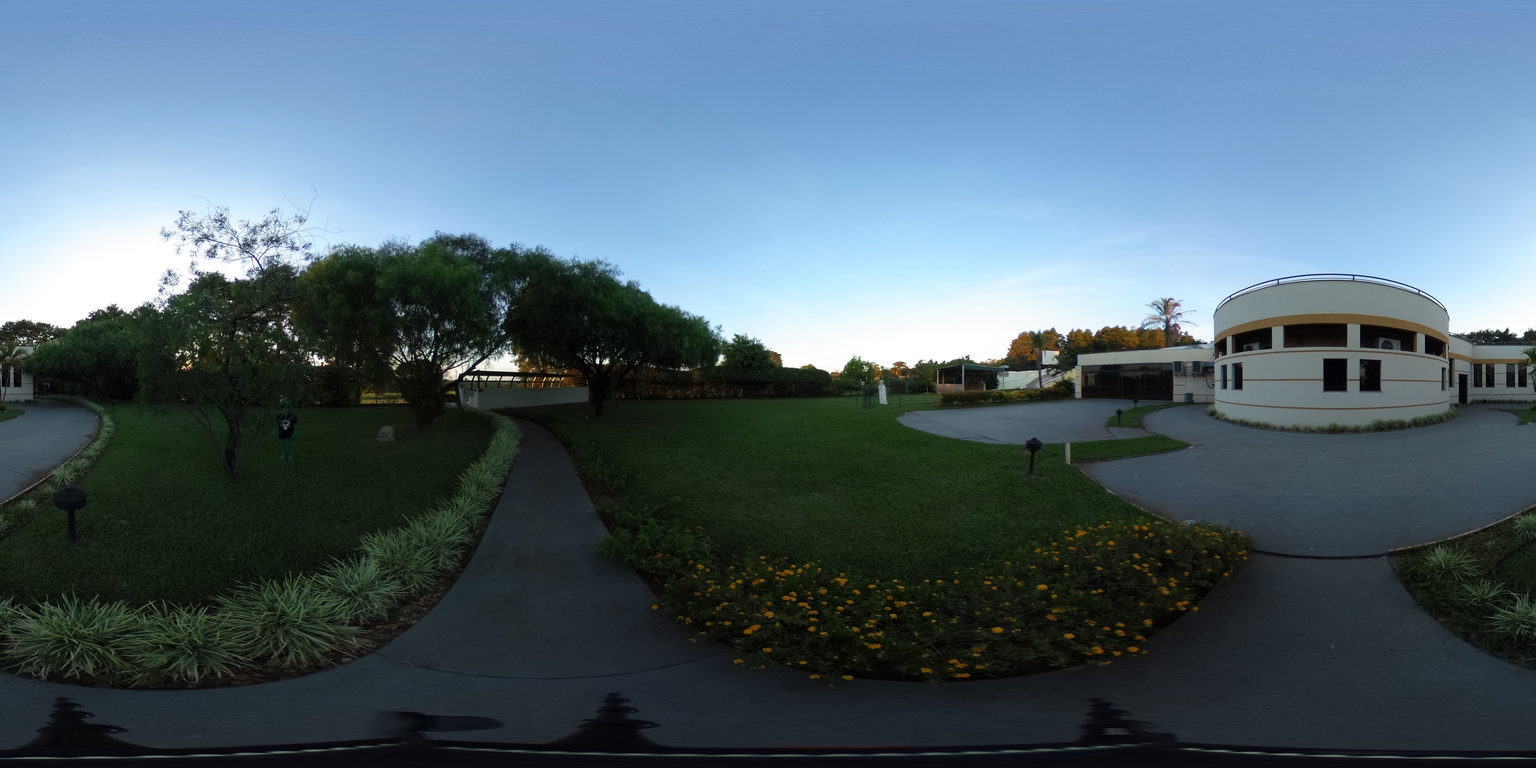
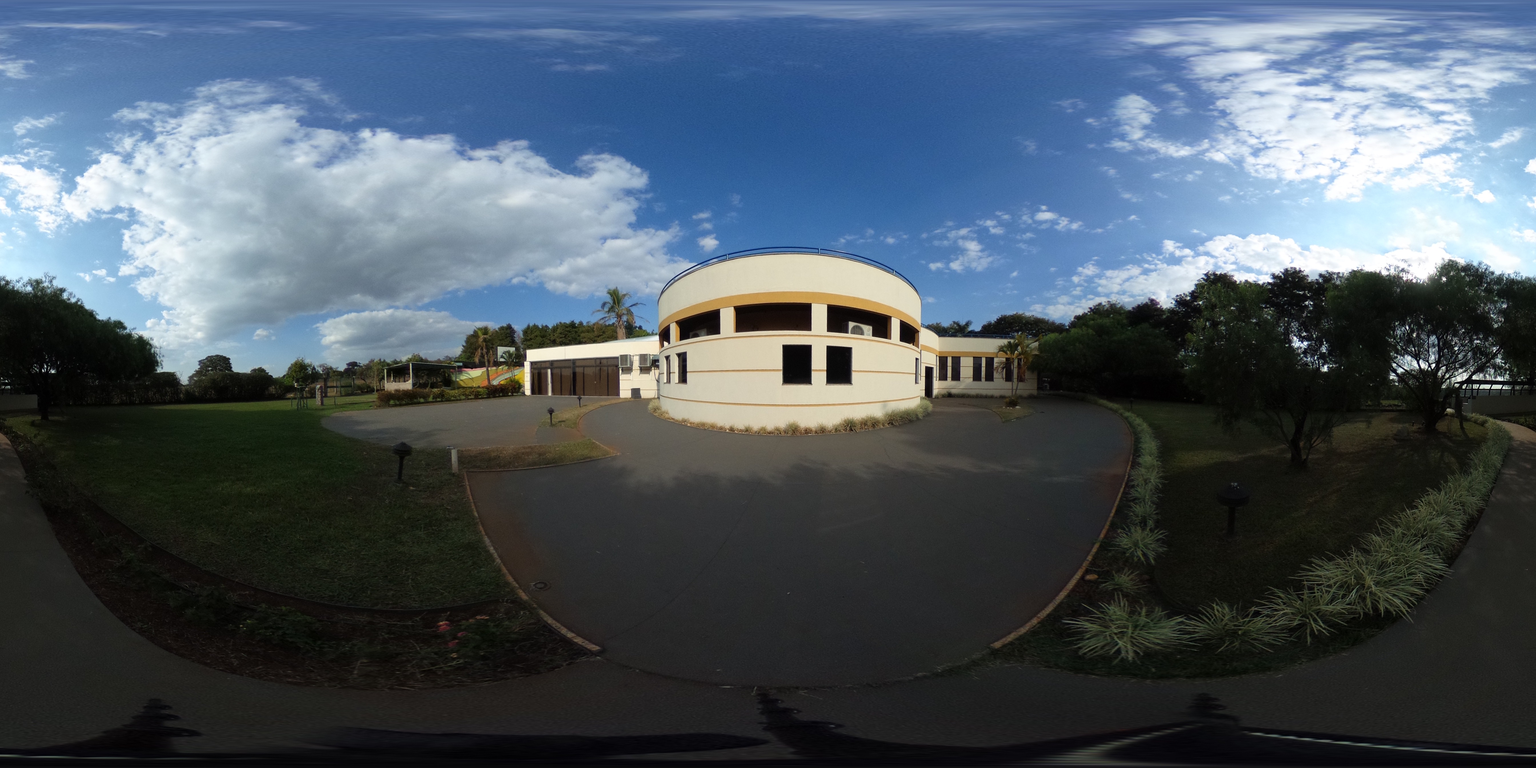
update photos to tour"

diff --git a/src/components/page/structure/StructureObject.ts b/src/components/page/structure/StructureObject.ts
@@ -98,31 +98,32 @@ const structureObject: pointStructureObjectType[]  =  [
         points: [
             {
                 name: 'Caverna',
-                position: [40, 4, -40],
+                position: [14, 2, -17],
                 link: 7,
             },
             {
                 name: 'Geoshow',
-                position: [30, 0, -10],
+                position: [0, 0, -20],
                 link: 11,
             },
             {
                 name: 'Aquario',
-                position: [30, 1, 4],
+                position: [20, 1, 2],
                 link: 4,
             },
             {
                 name: 'Relogio de Sol',
-                position: [4, 0, 30],
+                position: [8, 0, 17],
                 link: 14,
             },
             {
                 name: 'Jardim',
-                position: [15, 0, 40],
+                position: [4, 1, 20],
                 link: 10,
             },
         ],
-        url: '/images/360/alossauro.jpg',
+        rotation: [0 , -1 ,0],
+        url: '/images/360/alossauro.JPG',
     },
     {
         id: 4,
@@ -167,21 +168,22 @@ const structureObject: pointStructureObjectType[]  =  [
         points: [
             {
                 name: 'Foguete',
-                position: [-30, -4, 0],
+                position: [20, -4, -6],
                 link: 12,
             },
             {
                 name: 'Jardim',
-                position: [5, -2, 20],
+                position: [-10, -1, -2],
                 link: 10,
             },
             {
                 name: 'Antessala',
-                position: [18, -1, 28],
+                position: [-18, -1, -10],
                 link: 2,
             },
         ],
-        url: '/images/360/base-de-lancamento.jpg',
+        rotation: [0, 1.2, 0],
+        url: '/images/360/base-de-lancamento.JPG',
     },
     {
         id: 7,
@@ -227,30 +229,31 @@ const structureObject: pointStructureObjectType[]  =  [
         points: [
             {
                 name: 'Base de Lançamento',
-                position: [-10, 0, 10],
+                position: [15, 0, 0],
                 link: 6,
             },
             {
                 name: 'Antessala',
-                position: [20, 2, -6],
+                position: [-10, 2, -9],
                 link: 2,
             },
             {
                 name: 'Alossauro',
-                position: [-10, 2, -10],
+                position: [-2, 1, 16],
                 link: 3,
             },
             {
                 name: 'Relogio de Sol',
-                position: [-15, 2, -8],
+                position: [2, 1, 16],
                 link: 14,
             },
             {
                 name: 'Aquario',
-                position: [0, 1, -15],
+                position: [-10, 1, 10],
                 link: 4,
             },
         ],
+        rotation: [0, -4, 0],
         url: '/images/360/11-jardim.JPG',
     },
     {
@@ -258,26 +261,27 @@ const structureObject: pointStructureObjectType[]  =  [
         points: [
             {
                 name: 'Caverna',
-                position: [-1, 0, -20],
+                position: [0, 0, 18],
                 link: 7,
             },
             {
                 name: 'Aquario',
-                position: [30, 0, 0],
+                position: [-15, 0, 0],
                 link: 4,
             },
             {
                 name: 'Relogio de Sol',
-                position: [15, 0, 20],
+                position: [-12, 0, -15],
                 link: 14,
             },
             {
                 name: 'Alossauro',
-                position: [0, 0, 20],
+                position: [-1, 0, -15],
                 link: 3,
             },
         ],
-        url: '/images/360/geoshow.jpg',
+        rotation: [0, 1.7, 0],
+        url: '/images/360/geoshow.JPG',
     },
     {
         id: 12,
@@ -288,7 +292,7 @@ const structureObject: pointStructureObjectType[]  =  [
                 link: 6,
             },
         ],
-        url: '/images/360/lancamento-foguetes.jpg',
+        url: '/images/360/lancamento-foguetes.JPG',
     },
     {
         id: 13,
@@ -326,7 +330,8 @@ const structureObject: pointStructureObjectType[]  =  [
                 link: 4,
             },
         ],
-        url: '/images/360/relogio-de-sol.jpg',
+        rotation: [0, 1.5, 0],
+        url: '/images/360/relogio-de-sol.JPG',
     },
     {
         id: 15,
@@ -358,7 +363,7 @@ const structureObject: pointStructureObjectType[]  =  [
                 link: 0,
             },
         ],
-        url: '/images/360/teatro-de-arena.jpg',
+        url: '/images/360/teatro-de-arena.JPG',
     },
 ]
 
